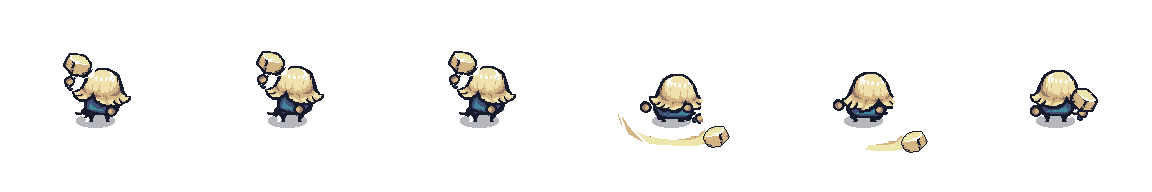
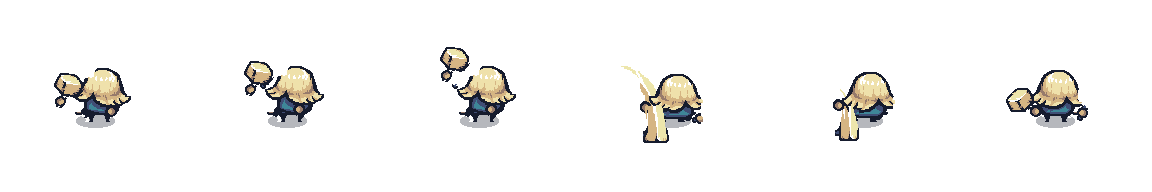
Old Pawn hammer up/down: lift high then slam straight down, from his build row's vertical smash (axe strips unchanged)

diff --git a/games/pawnrun/tools/make_old_anims.py b/games/pawnrun/tools/make_old_anims.py
@@ -294,63 +294,84 @@ def fade(lay, x0):
     return lay * (xs + 1.2 * (ys - ymid) >= x0)[..., None]
 
 
-def frames_for(weapon, up, S):
-    """[(pieces, behind_body)] for the 6 frames; pieces are full-frame layers."""
-    L = lambda k: layer(S[k], tool_mask(weapon, k, S[k]))
-    group = [clean(L(k), 14) if weapon == 'hammer' else L(k) for k in range(3)]
-    rest = L(5)
-    A = [side(sheet(), WEAPONS["axe"]["row"], c) for c in (3, 4)]      # the axe arcs are the template for both tools
-    smear, resid = (layer(a, tool_mask("axe", 3 + n, a)) for n, a in enumerate(A))
-    arc = lambda lay, dy=0: to_arc(lay, "axe", up, smear, top=114, bottom=70, dy=dy)
-    cut = lambda lay, x: (lay * (np.arange(F)[None, :, None] < x), lay * (np.arange(F)[None, :, None] >= x))
-    smear_t, smear_h = cut(smear, 142)
-    smear_t = smear_t * ~is_col(smear_t, [NAVY])[..., None]            # his hammer arc has no dark outline specks                                 # arc without its axe head / the axe head alone
-    resid_t, resid_h = cut(resid, 130)
-    mid = lambda lay: ((lambda b: ((b[0] + b[2]) // 2, (b[1] + b[3]) // 2))(bbox(lay[..., 3] == 255)))
-    trail = lambda dy, base: layer(arc(base, dy), np.arange(F)[None, :] >= 100)
-    if weapon == "axe":
-        hit = [smear, resid]
-        tails = [None, lambda dy: trail(dy, smear)]
-    else:                                                              # same arc, his hammer head on its tip instead of the axe head
-        head = layer(S[1], tool_group(S[1], False))
-        hb = bbox(head[..., 3] == 255)
+def hand_ring(g):
+    """Centre of the hand ring: the brown at the bottom of a tool group (the head has brown shading too)."""
+    x0, y0, x1, y1 = bbox(g[..., 3] == 255)
+    r = is_col(g, [BROWN])
+    r[:y1 - 11] = False
+    ys, xs = np.where(r)
+    return int(xs.mean()), int(ys.mean())
 
-        def tip(arc_lay, ex=0):                        # the hammer head sits on the arc's end, centred on the arc's thickness there
-            ys, xs = np.where(arc_lay[..., 3] == 255)
-            x1 = xs.max()
-            yc = ys[xs >= x1 - 4].mean()
-            return xform(head, dx=x1 - 3 + ex - hb[0], dy=int(round(yc)) - (hb[1] + hb[3]) // 2)
-    if weapon == "hammer":
-        def under(a_lay):                              # the arc stops where the hammer head starts: nothing pokes out above it
-            hd = tip(a_lay)
-            return [clean(a_lay * (np.arange(F)[None, :, None] < bbox(hd[..., 3] == 255)[0] + 2)), hd]
-        h3 = lambda dy: under(arc(smear_t, dy))
-        h4 = lambda dy: under(clean(xform(fade(arc(smear_t, dy), 96), dx=6)))
+
+def hammer_frames(up, S):
+    """His real build row: lift the hammer high, then slam it straight down (vertical on screen in both views)."""
+    L = lambda k: layer(S[k], tool_mask("hammer", k, S[k]))
+    group = [clean(L(k), 14) for k in range(3)]
+    sw, rs, rest = L(3), L(4), L(5)
+    for lay in (sw, rs):
+        lay[84:114, 118:132] = 0                      # that corner is his hair fringe, not swoosh
+    x0, y0, x1, y1 = bbox(sw[..., 3] == 255)
+    for lay in (sw, rs):                               # no dark specks along the streak: outline only on the head at the bottom
+        lay[:y1 - 30] *= ~is_col(lay[:y1 - 30], [NAVY])[..., None]
+    for lay in (sw, rs):                               # and no loose bits of that outline
+        nv = is_col(lay, [NAVY])
+        lab, n = ndi.label(nv, structure=np.ones((3, 3)))
+        lay *= ~np.isin(lab, [i + 1 for i, z in enumerate(ndi.sum(nv, lab, range(1, n + 1))) if z < 15])[..., None]
+    sw, rs = clean(sw, 8), clean(rs, 8)
+    lab, n = ndi.label(rs[..., 3] == 255, structure=np.ones((3, 3)))
+    rs = rs * (lab == 1 + int(np.argmax(ndi.sum(lab > 0, lab, range(1, n + 1)))))[..., None]     # follow-through: the head and streak only
+    cols = np.where((sw[y1 - 24:, :, 3] == 255).sum(0) >= 15)[0]      # the columns the head really fills
+    sx0, sx1 = cols.min(), cols.max()
+    slab_x = (sx0 + sx1) // 2                          # the head's centre column: this is what lands on the spot
+    for lay in (sw, rs):
+        lay[y1 - 30:, :sx0 - 3] = 0                # nothing but the head at the foot of the streak
+    if up:                                             # lands just above the top of his hair, a little right of centre
+        dx, dy = 104 - slab_x, 78 - y1
+    else:                                              # lands just below his feet, a little left (his right hand): swoosh stretched taller
+        sw = stretch(sw, 14, 62, 100)
+        dx, dy = 80 - slab_x, 142 - y1
+    sw, rs = xform(sw, dx=dx, dy=dy), xform(rs, dx=dx, dy=dy)
+    low = lambda lay: lay * (np.arange(F)[:, None, None] >= 106)       # the head part, drawn in front of his feet
+    high = lambda lay: lay * (np.arange(F)[:, None, None] < 106)
+    out = []
+    if up:
+        for i, (hx, hy) in enumerate([(136, 108), (136, 92), (131, 78)]):      # raised from his right side to high overhead
+            g = group[i]
+            gx, gy = hand_ring(g)
+            out.append(([], True, [xform(g, dx=hx - gx, dy=hy - gy)]))
+        out += [([hand_at(118, 84)], False, [sw]), ([hand_at(118, 86)], False, [rs]),
+                ([hand_at(120, 110)], False, [xform(rest, dx=4, dy=6)])]
     else:
-        h3 = lambda dy: [arc(smear, dy)]
-        h4 = lambda dy: [trail(dy, smear), arc(resid, dy)]
-    home = xform(rest, flip="h", pivot=(96, 0), dx=-22, dy=-4) if weapon == "axe" else xform(rest, dx=-8, dy=4)
-    if not up:
-        wind = []
-        for i in range(3):                             # cocked over his right shoulder = screen left (the axe row already is; the hammer row is mirrored)
-            g = xform(group[i], flip="h", pivot=(97, 0)) if weapon == "hammer" else group[i]
-            wind.append(([xform(g, dx=-3)], False))
-        return wind + [(h3(0) + [hand_at(113, 108)], False), (h4(5) + [hand_at(113, 110)], False), ([home], False)]
+        for i, (hx, hy) in enumerate([(58, 100), (56, 88), (60, 74)]):           # cocked up over his right shoulder (screen left)
+            g = xform(group[i], flip="h", pivot=(97, 0))
+            gx, gy = hand_ring(g)
+            out.append(([xform(g, dx=hx - gx, dy=hy - gy)], False, []))
+        out += [([low(sw)], False, [high(sw)]), ([low(rs)], False, [high(rs)]),
+                ([xform(rest, flip="h", pivot=(97, 0), dx=-3, dy=4)], False, [])]
+    return out
+
+
+def frames_for(weapon, up, S):
+    """[(pieces, behind_body[, layers under the body])] for the 6 frames; pieces are full-frame layers."""
+    if weapon == "hammer":
+        return hammer_frames(up, S)
+    L = lambda k: layer(S[k], tool_mask("axe", k, S[k]))
+    group, rest = [L(k) for k in range(3)], L(5)
+    smear, resid = L(3), L(4)
+    arc = lambda lay, dy=0: to_arc(lay, "axe", up, smear, top=114, bottom=70, dy=dy)
+    trail = lambda dy: layer(arc(smear, dy), np.arange(F)[None, :] >= 100)
+    home = xform(rest, flip="h", pivot=(96, 0), dx=-22, dy=-4)
+    if not up:                                         # his own side pose: the tool cocked up and out on screen left (his right hand)
+        return [([xform(g, dx=-3)], False) for g in group] + [
+            ([arc(smear), hand_at(113, 108)], False), ([trail(5), arc(resid, 5), hand_at(113, 110)], False), ([home], False)]
     low = []
-    for i in range(3):                                 # back view: tool low behind his shoulder, pulled back
-        g = group[i]
-        if weapon == "axe":
-            g = xform(xform(g, flip="v", pivot=(96, 96)), flip="h", pivot=(96, 0))
+    for i in range(3):                                 # back view: tool low behind his right shoulder, pulled back
+        g = xform(xform(group[i], flip="v", pivot=(96, 96)), flip="h", pivot=(96, 0))
         x0, y0, x1, y1 = bbox(g[..., 3] == 255)
-        if weapon == "hammer":                         # his hand at the right hip, the head up behind the shoulder
-            hr = is_col(g, [BROWN])
-            hr[:y1 - 11] = False                       # the hand ring is the brown at the very bottom (the head has brown shading too)
-            by, bx = np.where(hr)
-            low.append(([xform(g, dx=134 - int(bx.mean()) + i, dy=(115 + 2 * i) - int(by.mean()))], True))
-        else:
-            low.append(([xform(g, dx=134 - (x0 + x1) // 2 + i, dy=(110 + 2 * i) - (y0 + y1) // 2)], True))
+        low.append(([xform(g, dx=134 - (x0 + x1) // 2 + i, dy=(110 + 2 * i) - (y0 + y1) // 2)], True))
     mir = lambda ps: [xform(q, flip="h", pivot=(96, 0)) for q in ps]      # right-handed: the arc runs from screen right over his head to the left
-    return low + [(mir(h3(0) + [hand_at(110, 74)]), True), (mir(h4(-5) + [hand_at(110, 76)]), True), (mir([low[0][0][0]]), True)]
+    return low + [(mir([arc(smear), hand_at(110, 74)]), True), (mir([trail(-5), arc(resid, -5), hand_at(110, 76)]), True),
+                  (mir([low[0][0][0]]), True)]
 
 
 def swing(weapon, direction):
@@ -358,12 +379,12 @@ def swing(weapon, direction):
     S = [side(sheet(), WEAPONS[weapon]["row"], c) for c in range(6)]
     shadow = np.where(((S[0][..., 3] > 0) & (S[0][..., 3] < 255))[..., None], S[0], 0).astype(np.uint8)
     out = []
-    for k, (pieces, behind) in enumerate(frames_for(weapon, up, S)):
+    for k, (pieces, behind, *under) in enumerate(frames_for(weapon, up, S)):
         f = shadow.copy()
         body = side_body(S[k], k, weapon, "back" if up else "front")
         if weapon == "hammer" and not up and k < 3:
             body = xform(body, flip="h", pivot=(97, 0))
-        for lay in (pieces + [body] if behind else [body] + pieces):
+        for lay in (under[0] if under else []) + (pieces + [body] if behind else [body] + pieces):
             m = lay[..., 3] == 255
             f[m] = lay[m]
         out.append(f)
